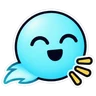
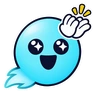
Replace chat emoji with custom Xiaoguang stickers
- 33 sticker set (8 redrawn, 25 new), bigger props and distinct faces so
  they read at 26px; normalised body size and position
- cosmetics.js EMO map covers every emoji used in quick chat and emote packs
- shop icons (full version, sponsor) use stickers
- sw.js precache + app/build.mjs file list; cache ppl-v58

diff --git a/shop.js b/shop.js
@@ -249,11 +249,11 @@ function grid(){
   const g=$('#shGrid'),coll=UI.view==='coll';g.className='shGrid';
   if(UI.cat==='full'){
     g.classList.add('one');const f=C.byId.full,own=isOwn(f);
-    g.innerHTML='<div class="shFull"><div class="ic">🌌</div><div style="flex:1">'+TX('<b>完整版　{price}</b><br>解除每個星座 30% 的上限：71 首全部可以過關解鎖（免費版 27 首）。之後新增的正式曲目也包含在內。一次買斷，不訂閱、沒有廣告。',{price:MODE==='test'?TX('測試期間免費'):priceTxt(f)})+'</div>'
+    g.innerHTML='<div class="shFull"><div class="ic">'+C.emo('🌌')+'</div><div style="flex:1">'+TX('<b>完整版　{price}</b><br>解除每個星座 30% 的上限：71 首全部可以過關解鎖（免費版 27 首）。之後新增的正式曲目也包含在內。一次買斷，不訂閱、沒有廣告。',{price:MODE==='test'?TX('測試期間免費'):priceTxt(f)})+'</div>'
       +(own?'<span class="pr own">'+TX('已擁有')+'</span>':unavail(f)?'<button disabled>'+TX('尚未開放')+'</button>':'<button class="gold" data-buy="full">'+(MODE==='test'?TX('取得'):TX('購買'))+'</button>')+'</div>'
       +'<div class="shNote">'+TX('獎勵星座和音符座一律免費，只要玩就能取得。')+'</div>';return}
   if(UI.cat==='sponsor'){
-    g.innerHTML=C.items.filter(i=>i.cat==='sponsor').map(it=>{const ic={'30':'☕','90':'🎵','300':'🎹'}[it.k]||'✦',nm=it.name;
+    g.innerHTML=C.items.filter(i=>i.cat==='sponsor').map(it=>{const ic=C.emo({'30':'☕','90':'🎵','300':'🎹'}[it.k]||'✦'),nm=it.name;
       const sub=TXO({'30':'贊助者稱號「點燈人」','90':'稱號＋金冠頭像','300':'稱號＋金冠＋金色名牌框「燈塔」'})[it.k]||it.desc;
       return '<div class="shIt shSp"><div class="ic">'+ic+'</div><div class="nm" style="text-align:center">'+esc(nm)+'</div><small style="margin:3px 0 6px">'+esc(sub)+'</small>'
         +(MODE==='test'?'<button disabled>'+TX('App 版開放')+'</button>':unavail(it)?'<button disabled>'+TX('尚未開放')+'</button>':'<button class="gold" data-buy="'+it.id+'">'+priceTxt(it)+'</button>')+'</div>'}).join('')

diff --git a/cosmetics.js b/cosmetics.js
@@ -1060,7 +1060,9 @@ function previewT(it){
 // ---- avatar / plate / title html (used by the shop, the collection and, once the server sends them, lists and rooms) ----
 const esc=s=>String(s).replace(/[&<>"']/g,c=>({'&':'&amp;','<':'&lt;','>':'&gt;','"':'&quot;',"'":'&#39;'}[c]));
 // 小光 stickers stand in for these emoji wherever phrases are shown (room bubbles, quick-say, messages, shop)
-const EMO={'👍':'good','👌':'good','🔥':'fire','🥰':'love','😮':'wow','🙌':'wow','👏':'clap','🤝':'gg','😭':'cry','🎵':'encore','🔁':'encore'};
+const EMO={'👍':'good','👌':'good','🔥':'fire','🥰':'love','😮':'wow','🙌':'wow','👏':'clap','🤝':'gg','😭':'cry','🎵':'encore','🔁':'encore',
+  '💪':'strong','😤':'huff','⚡':'zap','🙈':'oops','🎉':'party','🍵':'tea','🎹':'piano','🥁':'drum','🎼':'score','🙇':'bow','✨':'sparkle',
+  '👋':'wave','🙋':'wave','⏳':'wait','🚀':'rocket','🤣':'lol','😹':'stunned','🫠':'melt','😏':'smirk','😎':'cool','🧋':'boba','👀':'peek','🙏':'please','🎮':'game','☕':'coffee','🌌':'galaxy'};
 // skin tones, ZWJ sequences and FE0F forms stay as they are. No lookbehind (Safari before 16.4 cannot parse one, and the whole file would fail):
 // a ZWJ right before the emoji is matched as group 1 and the match is then left unchanged.
 let EMO_RE=null;try{EMO_RE=new RegExp('(\\u200D)?('+Object.keys(EMO).join('|')+')(?!\\uFE0F|\\u200D|\\p{Emoji_Modifier})','gu')}catch(e){}

diff --git a/sw.js b/sw.js
@@ -1,5 +1,5 @@
 // PingPongLight service worker: offline support for the static site.
-const CACHE = 'ppl-v57';
+const CACHE = 'ppl-v58';
 const PRECACHE = [
   './',
   'index.html',
@@ -25,7 +25,7 @@ const PRECACHE = [
   'ai_stars.webp', 'ai_aurora.webp', 'ai_sea.webp', 'ai_sakura.webp', 'ai_lava.webp',
   'ai_snow.webp', 'ai_candy.webp', 'ai_nebula.webp', 'ai_paper.webp', 'ai_mysky.webp',
   'meteor_1.webp', 'meteor_2.webp', 'meteor_3.webp',
-  ...['good', 'fire', 'love', 'wow', 'clap', 'cry', 'gg', 'encore'].map((k) => 'emo_' + k + '.webp'),
+  ...['good', 'fire', 'love', 'wow', 'clap', 'cry', 'gg', 'encore', 'strong', 'huff', 'zap', 'oops', 'party', 'tea', 'piano', 'drum', 'score', 'bow', 'sparkle', 'wave', 'wait', 'rocket', 'lol', 'stunned', 'melt', 'smirk', 'cool', 'boba', 'peek', 'please', 'game', 'coffee', 'galaxy'].map((k) => 'emo_' + k + '.webp'),
 ];
 
 self.addEventListener('install', (event) => {
